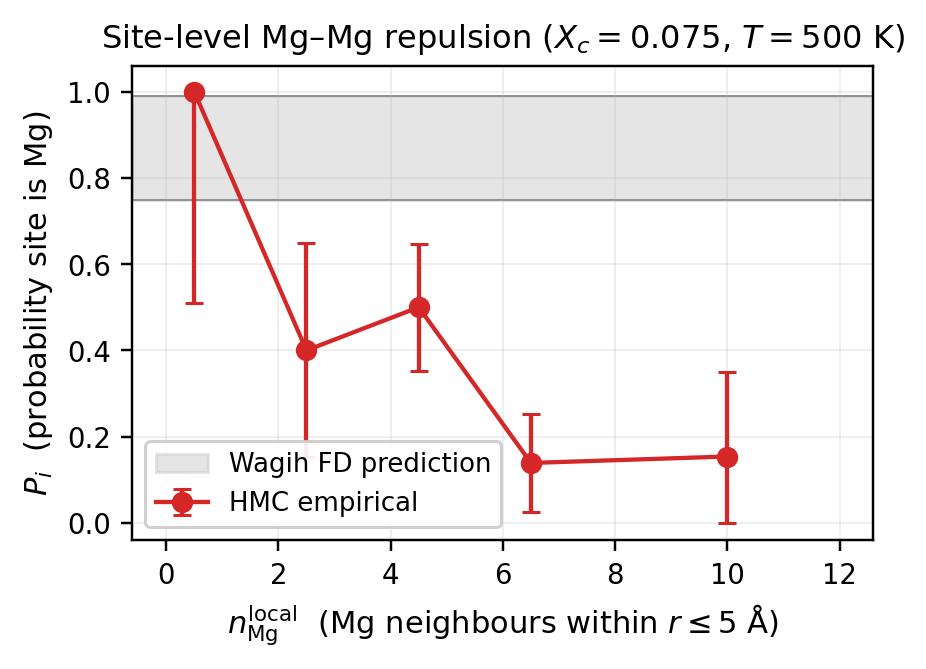
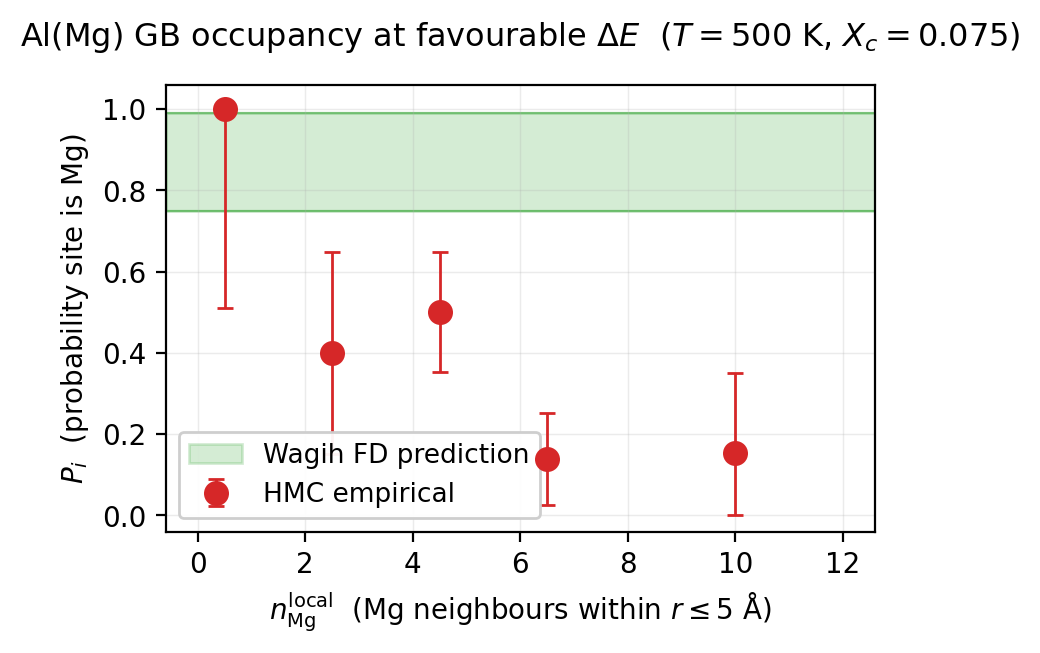
Restyle Fig 3 to match Fig 0 conventions
- Wagih band: gray → green (C2), matching Fig 0's Wagih FD line color.
- Empirical markers: filled red circles (C3, ms=8) matching Fig 0's
  HMC-equilibrium markers; connecting line dropped (Fig 0 leaves
  discrete measurements unconnected).
- Title pattern "Al(Mg) GB occupancy at favourable ΔE (T=500 K,
  X_c=0.075)" mirrors Fig 0's "Al(Mg) GB occupancy at T=500 K
  (N_GB/N_tot=0.187)" — descriptive, conditions in parentheses, not
  the conclusion.
- Grid alpha 0.25 / lw 0.5, legend fontsize 9.5 / framealpha 0.95 —
  same parameters as Fig 0.

diff --git a/project/scripts/mechanism_repulsion_at_fixed_dE.py b/project/scripts/mechanism_repulsion_at_fixed_dE.py
@@ -138,17 +138,25 @@ def main() -> None:
               f"n={r['n_sites']:3d}  P̂={r['p_hat']:.3f}  "
               f"CI=[{r['ci_lo']:.3f}, {r['ci_hi']:.3f}]")
 
-    # ---- single-panel plot, sized for double-column paper figure ----
-    fig, ax = plt.subplots(figsize=(4.2, 3.2))
+    # ---- single-panel plot, styled to match Fig 0 conventions ----
+    # Fig 0 (canonical_fd_compare_5pt_with_multistart.py) uses:
+    #   Wagih FD = green C2 line, HMC equilibrium = red C3 filled circle,
+    #   grid alpha=0.25 lw=0.5, title fontsize=12.5 pad=22, legend
+    #   fontsize=10. We mirror those choices here. Figure size stays
+    #   smaller (single-column-of-double-column-paper layout).
+    fig, ax = plt.subplots(figsize=(4.4, 3.4))
 
-    # Wagih band (favorable ΔE) — shaded; the band is the prediction
-    # range, NOT a statistical confidence interval.
-    ax.axhspan(pw_fav_min, pw_fav_max, color="0.78", alpha=0.45,
+    # Wagih FD prediction band (green to match Fig 0's Wagih line color).
+    # The band spans the per-site prediction range across the ΔE window —
+    # this is the prediction *range*, NOT a statistical confidence band.
+    ax.axhspan(pw_fav_min, pw_fav_max, color="C2", alpha=0.20,
                zorder=0, label="Wagih FD prediction")
-    ax.axhline(pw_fav_min, color="0.55", lw=0.6, zorder=1)
-    ax.axhline(pw_fav_max, color="0.55", lw=0.6, zorder=1)
+    ax.axhline(pw_fav_min, color="C2", lw=0.8, alpha=0.55, zorder=1)
+    ax.axhline(pw_fav_max, color="C2", lw=0.8, alpha=0.55, zorder=1)
 
-    # Empirical points + binomial CI
+    # Empirical points + binomial CI (red C3 filled circle, ms=8 — matches
+    # Fig 0's HMC-equilibrium marker; no connecting line — Fig 0 leaves
+    # discrete measurements unconnected).
     nl_centers = np.array([r["n_local_center"] for r in rows_fav])
     p_hats = np.array([r["p_hat"] for r in rows_fav])
     ci_los = np.array([r["ci_lo"] for r in rows_fav])
@@ -157,29 +165,28 @@ def main() -> None:
     ax.errorbar(
         nl_centers[valid], p_hats[valid],
         yerr=[p_hats[valid] - ci_los[valid], ci_his[valid] - p_hats[valid]],
-        fmt="o-", color="#d62728", ms=6, capsize=3, lw=1.4,
-        label="HMC empirical",
+        fmt="o", color="C3", ms=8, capsize=3, elinewidth=1.0, mew=1.0,
+        label="HMC empirical", zorder=5,
     )
 
     ax.set_xlabel(
-        rf"$n_\mathrm{{Mg}}^\mathrm{{local}}$  (Mg neighbours within "
-        rf"$r \leq {R_LOCAL:.0f}$ Å)",
-        fontsize=10,
+        rf"$n_\mathrm{{Mg}}^\mathrm{{local}}$  "
+        rf"(Mg neighbours within $r \leq {R_LOCAL:.0f}$ Å)"
     )
-    ax.set_ylabel(r"$P_i$  (probability site is Mg)", fontsize=10)
+    ax.set_ylabel(r"$P_i$  (probability site is Mg)")
     ax.set_title(
-        rf"Site-level Mg–Mg repulsion ($X_c={XC}$, $T={T_K:.0f}$ K)",
-        fontsize=10.5,
+        rf"Al(Mg) GB occupancy at favourable $\Delta E$  "
+        rf"($T={T_K:.0f}$ K, $X_c={XC}$)",
+        fontsize=11.5, pad=14,
     )
     ax.set_xlim(-0.6, max(r["n_local_hi"] for r in rows_fav) + 0.6)
     ax.set_ylim(-0.04, 1.06)
-    ax.tick_params(labelsize=9)
-    ax.grid(alpha=0.25, lw=0.5)
-    ax.legend(loc="lower left", fontsize=8.5, framealpha=0.92)
+    ax.grid(True, alpha=0.25, lw=0.5)
+    ax.legend(loc="lower left", fontsize=9.5, framealpha=0.95)
 
     fig.tight_layout()
     out_png = OUT_DIR / f"{OUT_PREFIX}.png"
-    fig.savefig(out_png, dpi=220, bbox_inches="tight")
+    fig.savefig(out_png, dpi=200, bbox_inches="tight")
     plt.close(fig)
     print(f"\nSaved: {out_png}")
 